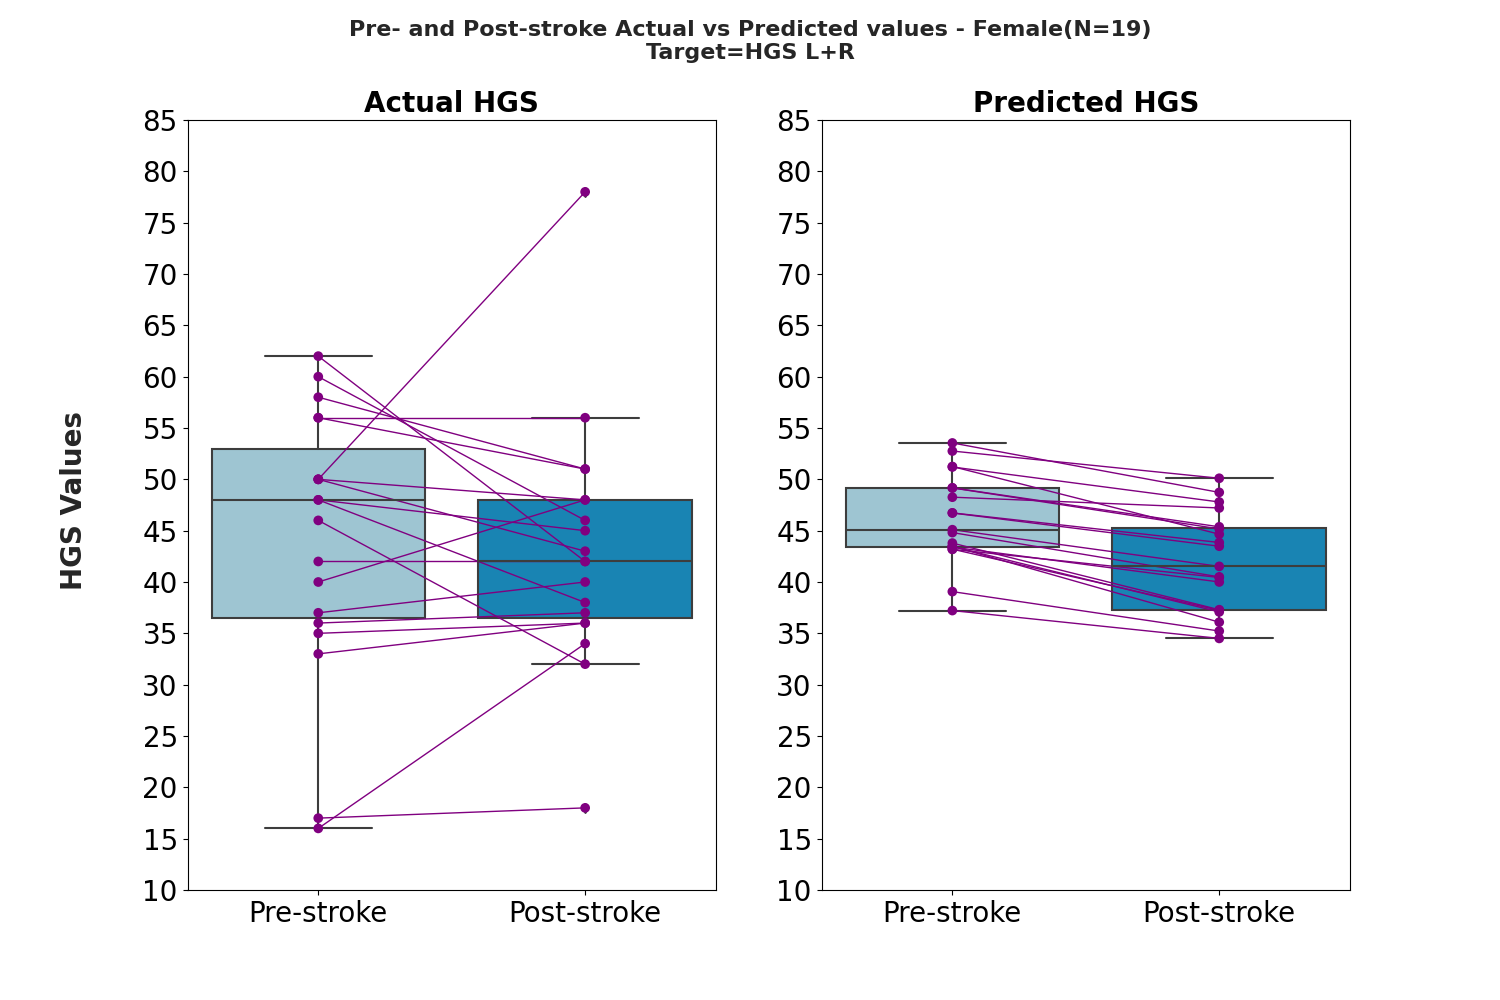
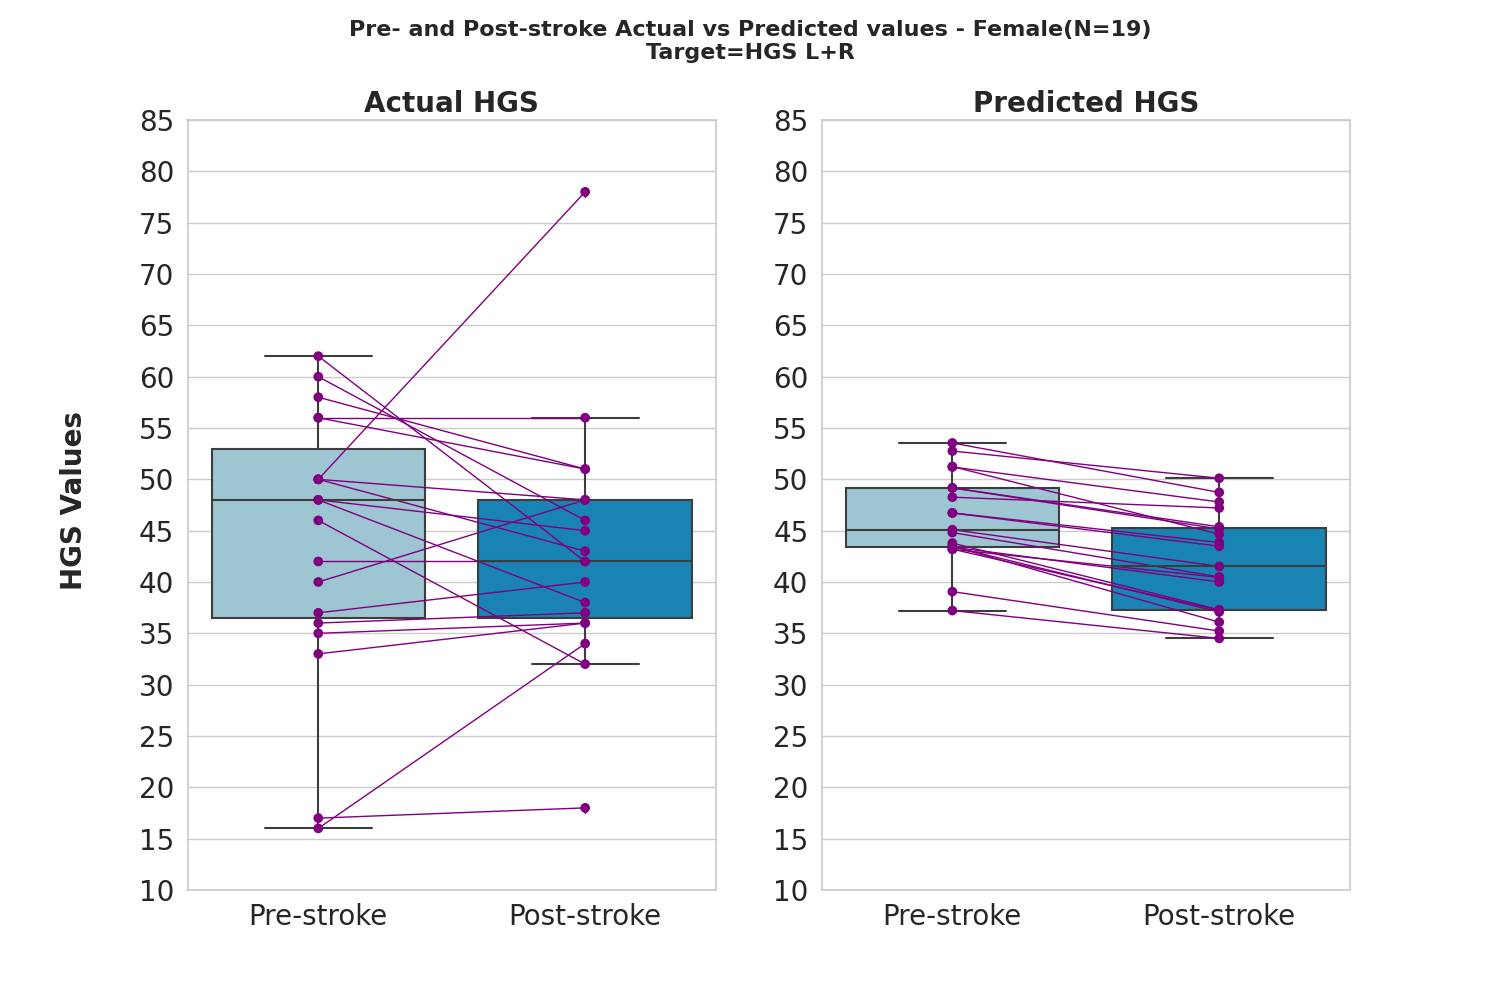
modified plots

diff --git a/exec/plots/plot_data_distribution/stroke/hgs_data_distripution_boxplot/longitudinal_stroke/pair_plot_gender_separated.py b/exec/plots/plot_data_distribution/stroke/hgs_data_distripution_boxplot/longitudinal_stroke/pair_plot_gender_separated.py
@@ -55,6 +55,7 @@ for item in df_selected["gender"].unique():
     # Define a custom palette with two blue colors
     custom_palette = sns.color_palette(['#B7E4C7', '#FFB0C4'])  # You can use any hex color codes you prefer
     # Create the boxplot with the custom palette
+    sns.set(style="whitegrid")
     fig, ax = plt.subplots(1, 2, figsize=(15, 10))  # Adjust the figure size if needed
     sns.set(style="whitegrid")
     # Define a custom palette with two blue colors
@@ -83,6 +84,7 @@ for item in df_selected["gender"].unique():
         sns.boxplot(x="stroke_cohort", y="value", data=melted_df, palette=custom_palette, ax=ax[index])
         sns.stripplot(x="stroke_cohort", y="value", data=melted_df, color=rgb_color, jitter=False, linewidth=0, size=7, ax=ax[index])
         sns.lineplot(data=melted_df, x="stroke_cohort", y="value", estimator=None, units="SubjectID", markers=True, color=rgb_color, linewidth=1, legend=False, ax=ax[index])
+        sns.set(style="whitegrid")
         print(index, yaxis_target)
         print(column_groups)
         

diff --git a/exec/plots/plot_data_distribution/stroke/hgs_data_distripution_boxplot/longitudinal_stroke/healthy_boxplots_hgs_longitudinal_stroke_distribution_female_male_nextto_eachother.py b/exec/plots/plot_data_distribution/stroke/hgs_data_distripution_boxplot/longitudinal_stroke/healthy_boxplots_hgs_longitudinal_stroke_distribution_female_male_nextto_eachother.py
@@ -36,7 +36,8 @@ for target in ["hgs_left", "hgs_right", "hgs_L+R"]:
         "both_gender",
         session="3",
     )
-    
+    print("===== Done! =====")
+    embed(globals(), locals())
     df_2_intersection = df_2[df_2.index.isin(df_3.index)]
     df_3_intersection = df_3[df_3.index.isin(df_2.index)]
 
